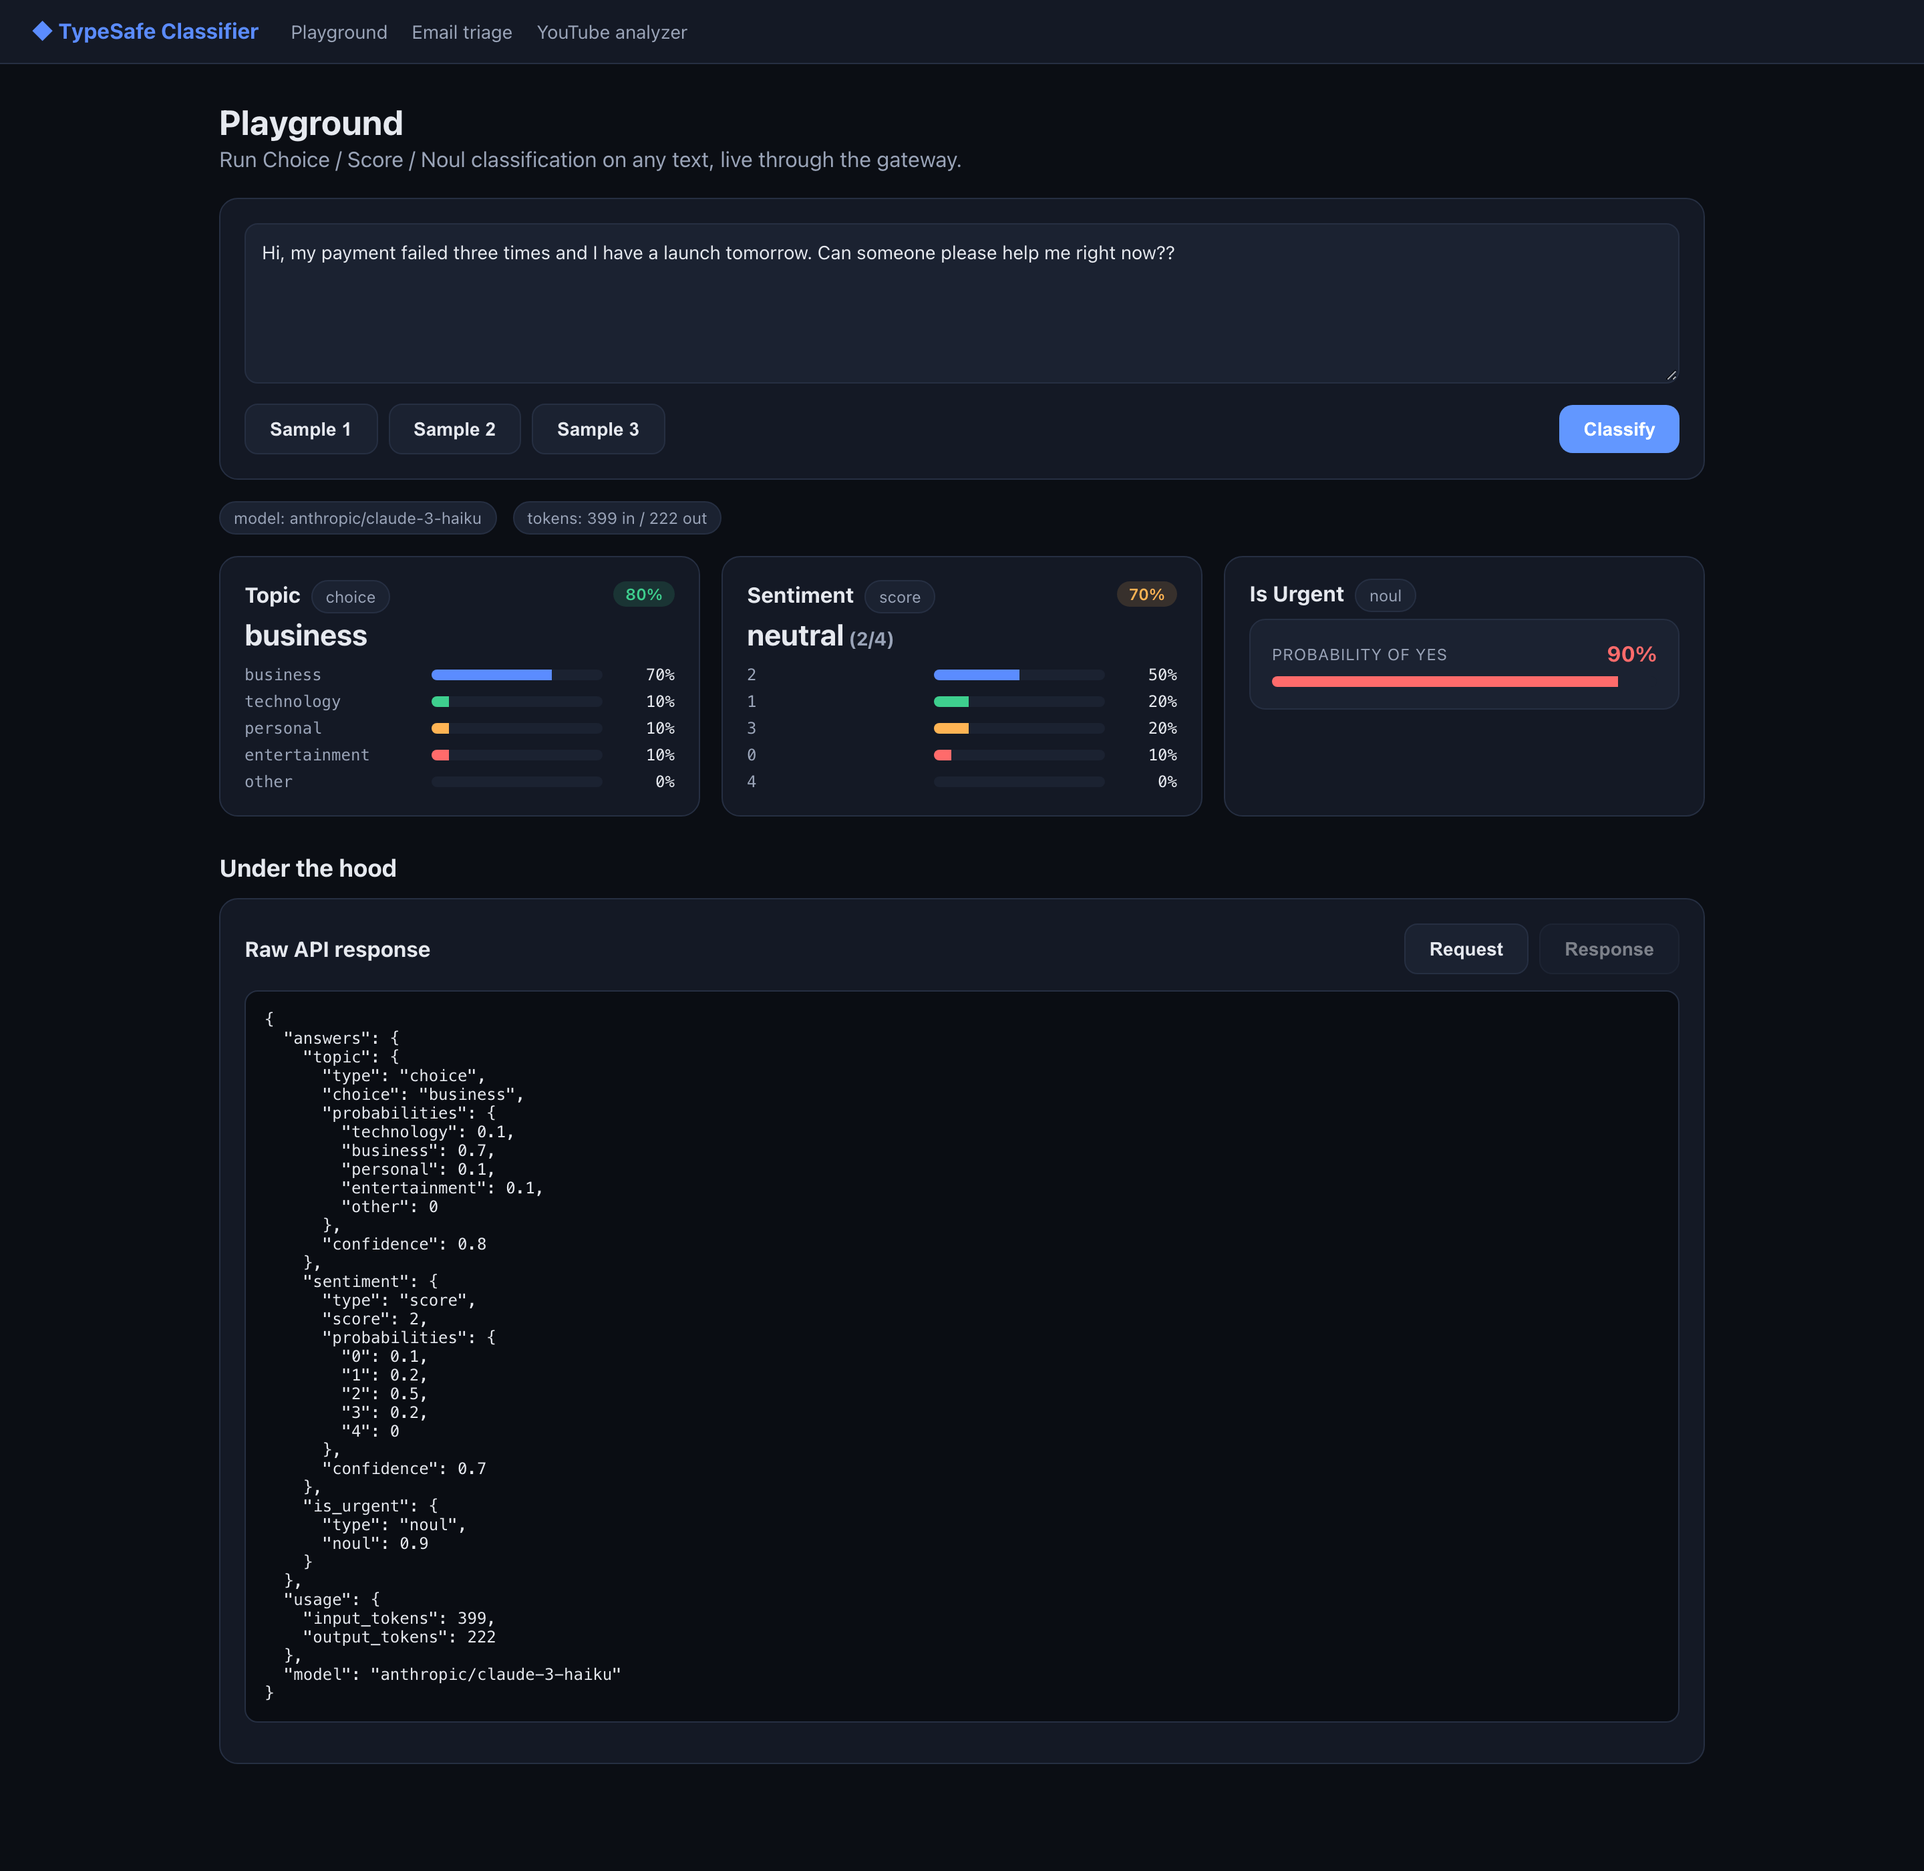
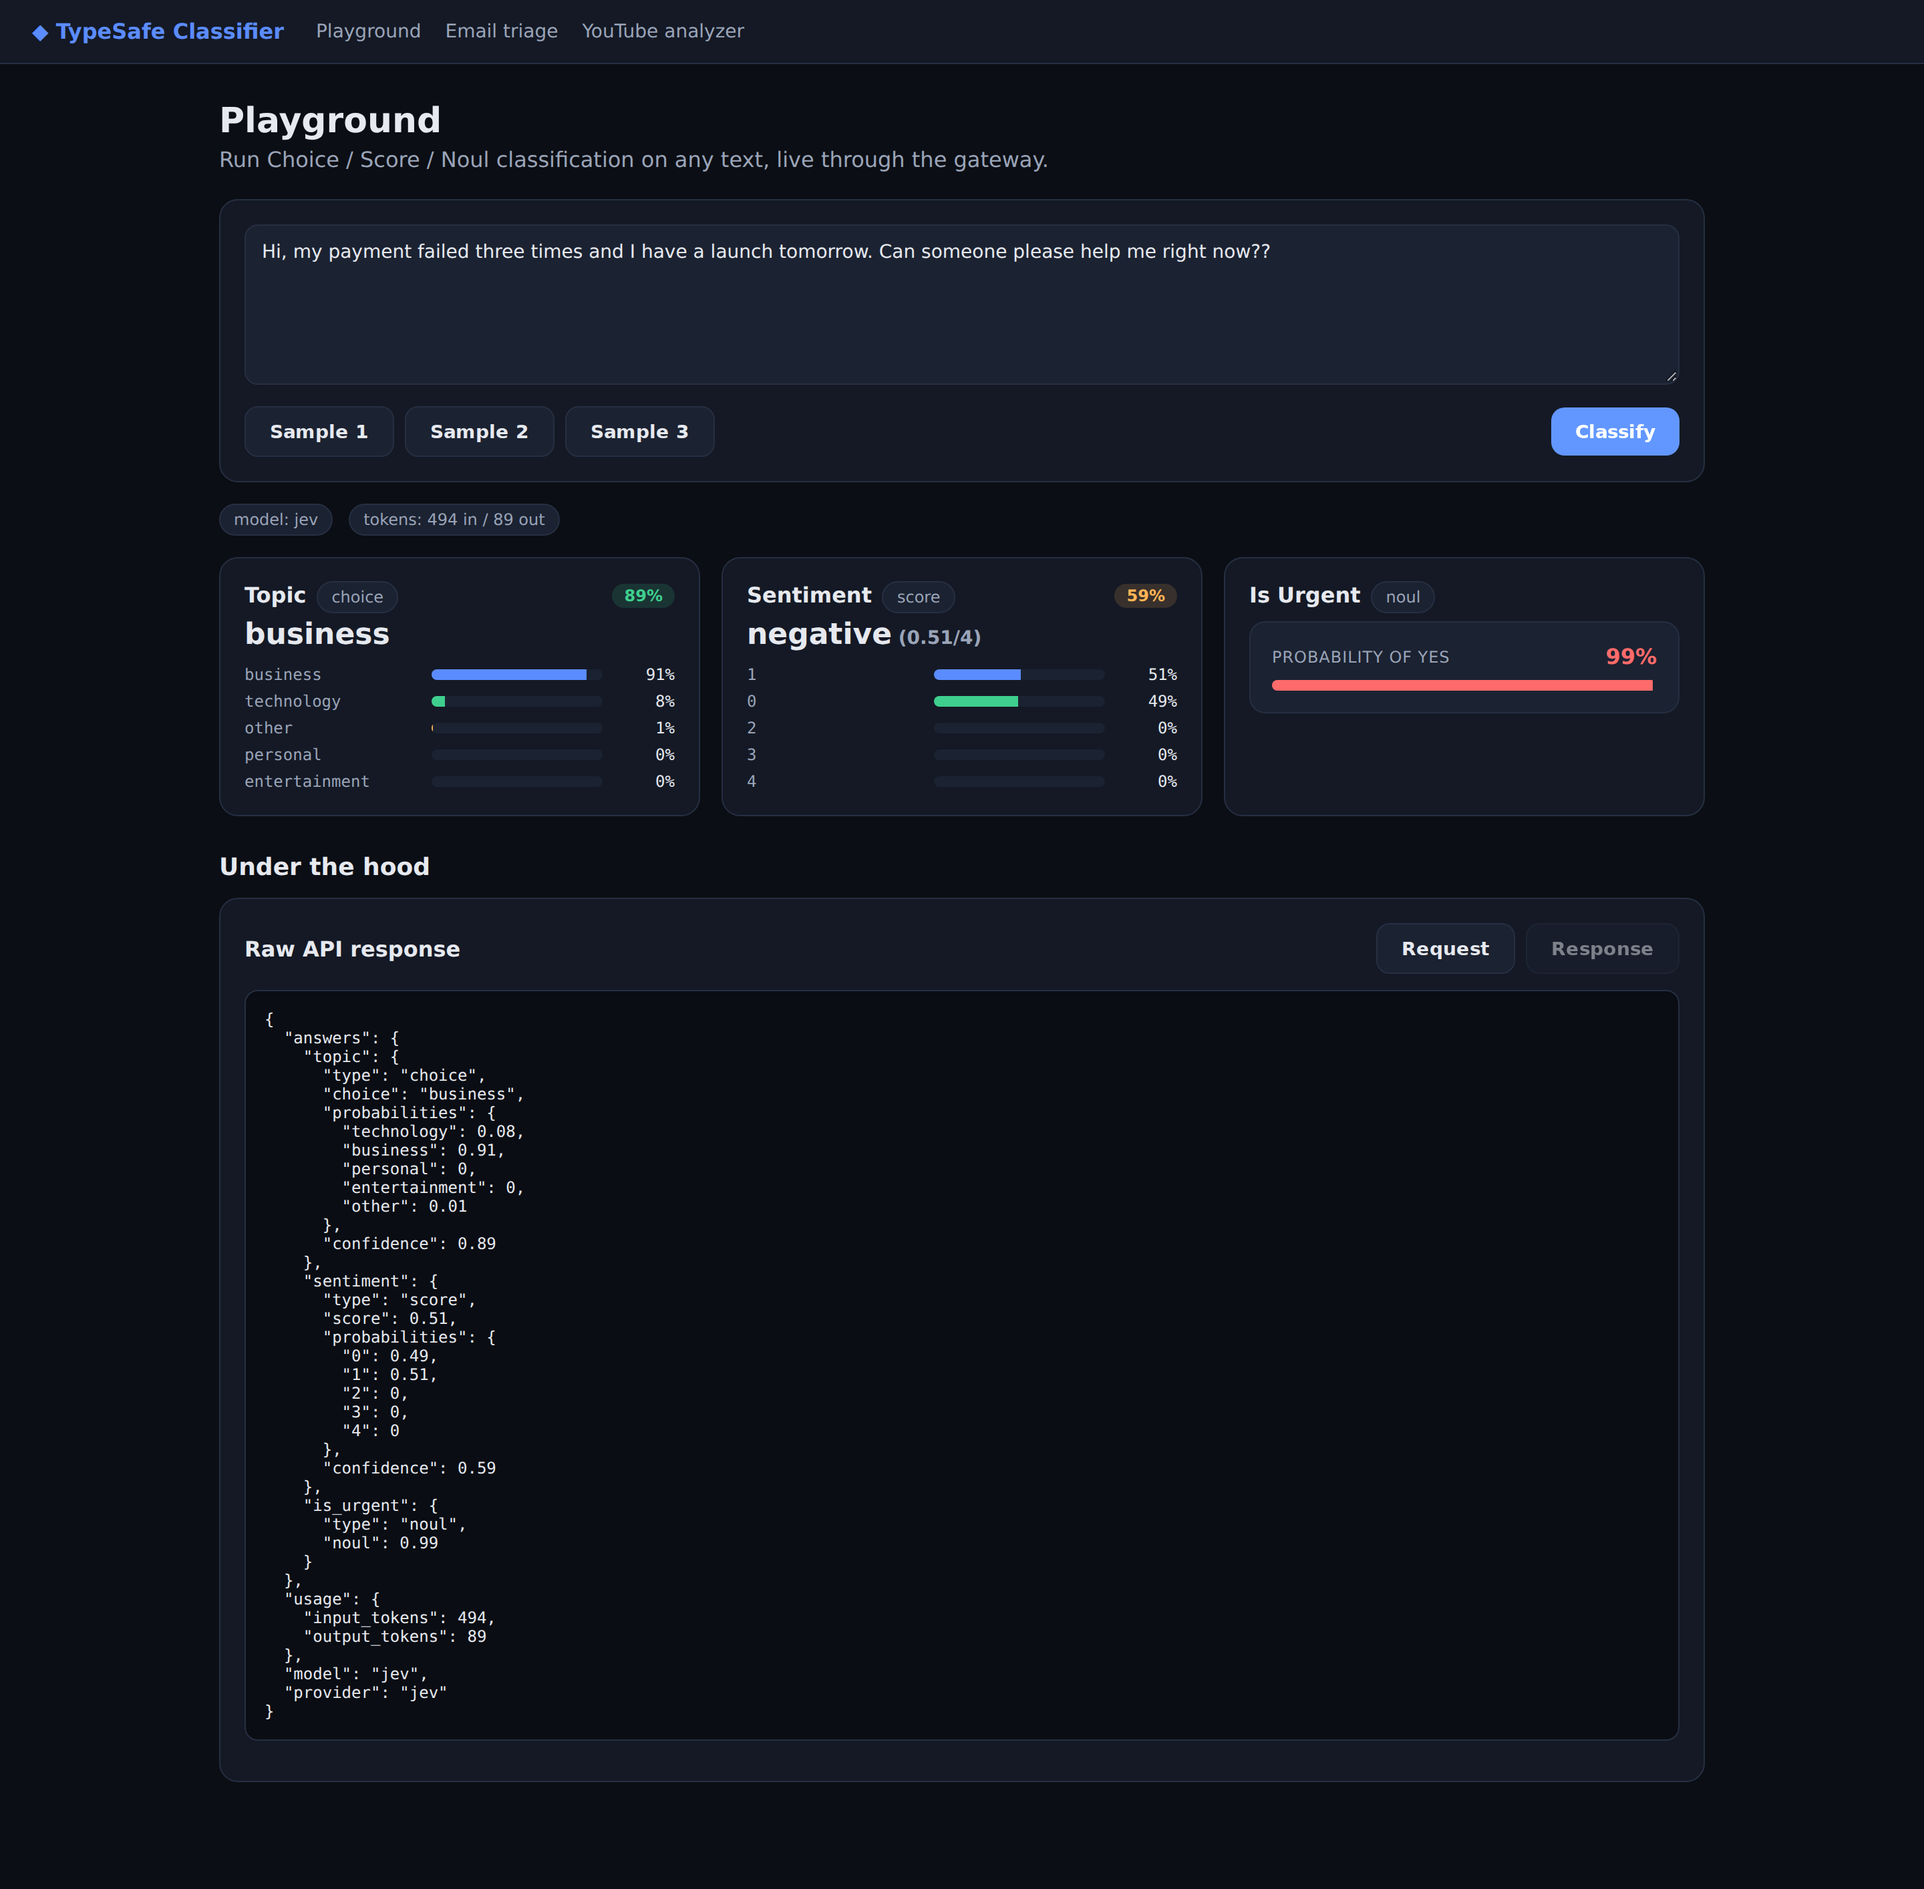
Roadmap v2: Jev expertise hub - dashboard UX audit, dev views, use-case gallery
- Track A: per-dashboard audit (code-verified: charts/stats are static, YouTube
  table unsortable) -> click-to-filter everywhere, row drill-overs, routing sliders
- Track B: RawIO-style full Jev request/response views across all dashboards
- Track C: 10 researched use cases (TypeSafe cookbooks + use-case map), tool-call
  dispatcher (agentic) first, each as a mini-dashboard with 5/10/All batches
- Day-by-day cadence D3-D14; README pointer updated
- Refreshed live-Jev screenshots served at /shots/ via public/shots

diff --git a/docs/ROADMAP-V2.md b/docs/ROADMAP-V2.md
@@ -1,0 +1,107 @@
+# Roadmap v2 — Jev Expertise Hub (from 2026-11-03)
+
+Status: **real Jev live** on http://76.13.122.86:8094/ via the AI Gateway `typesafe`
+surface (vck_ key + paid credits). Emulated Claude path remains selectable
+(`provider=gateway`) for comparison. This roadmap supersedes the "swap" plan, which is done.
+
+Three tracks run concurrently, one visible commit minimum per day:
+
+- **A. Experience** — audit and upgrade every dashboard's interactivity.
+- **B. Dev views** — see the full Jev payload behind every screen, not just Playground.
+- **C. Use-case gallery** — grow the app into the go-to place for Jev expertise, one
+  real use case at a time, in batches of 5–10 items each, like emails/YouTube.
+
+---
+
+## Track A — dashboard-by-dashboard feature audit (code-verified)
+
+### Playground (/playground)
+**Today:** free-text box, 3 samples, single classify, model + token pills, answer cards
+(Choice/Score/Noul), raw request/response viewer (RawIO). Default provider is now real Jev.
+**Gaps → upgrades:**
+- [ ] Provider toggle (Real Jev / Emulated) + side-by-side "ask both" mode.
+- [ ] Editable question builder (add/remove Choice/Score/Noul without code).
+- [ ] History of runs within the session (persist answers across refresh — localStorage).
+- [ ] Latency readout per call (Jev is ~150 ms; worth showing).
+
+### Email triage (/emails)
+**Today:** limit selector (10…All 40), Classify button, donut (categories), histograms
+(urgency/priority), stat tiles, gauge (avg confidence), table sortable by
+subject/category/priority/urgent/confidence.
+**Gaps → upgrades:**
+- [ ] Click a stat/donut slice/histogram bar → filters the table to that bucket.
+- [ ] Click a table row → slide-over with full email text + raw Jev payload for that item.
+- [ ] Confidence-gated routing view: auto-handle vs needs-human split (Jev-native pattern)
+      with adjustable threshold sliders that re-segment instantly.
+- [ ] CSV/JSON export of results incl. probabilities.
+- [ ] Paste-in mode (bring your own emails) like Playground.
+
+### YouTube analyzer (/youtube)
+**Today:** limit selector, Analyze button, topic donut, sentiment & clickbait histograms,
+gauges, timeline, stats. **Table is NOT sortable** and nothing is clickable.
+**Gaps → upgrades:**
+- [ ] Table sorting (parity with emails) + row click → full raw payload + explanation.
+- [ ] Click "N clickbait" stat or clickbait histogram bar → list only those videos
+      (the exact ask: every number becomes a filter).
+- [ ] Per-video BS score badge in a dedicated ranked "Most clickbait" list.
+- [ ] Export + paste-in titles.
+
+### Cross-app
+- [ ] Shared dev view: a `?dev=1` mode or per-page toggle showing the real
+      `/v1/systemone` request + response for every batch item (not just Playground).
+- [ ] All stats/tables/charts fed from the same filter state (chart→table→detail drill path).
+
+## Track B — developer views
+
+Every dashboard gets the Playground's raw-payload treatment: exact Jev request (model,
+state, questions) and exact answer JSON per item, token usage, retry/fallback events
+visible. This is how the app teaches Jev — it already lives in `components/RawIO.tsx`
+and just needs to be wired into batch rows and drill-overs.
+
+## Track C — use-case gallery (researched from docs.typesafe.ai + ecosystem)
+
+Pattern: each use case = a mini-dashboard like emails/YouTube: dataset, typed questions,
+batch classify (5–10 items), charts, dev view. Sources: TypeSafe cookbooks & use-case map.
+
+Priority order (agentic first, as agreed):
+1. **Tool-call dispatcher (agentic flagship)** — natural-language request → function name +
+   closed-set arguments as Choice questions with confidence (trading-API cookbook pattern:
+   `plot_price(symbol='AAPL', resolution='1d')` @ 0.75). Shows Jev as the decision layer of an agent.
+2. **Model router** — classify intent/difficulty/risk → route to cheap vs frontier model.
+3. **LLM guardrails** — screen messages in/out of any LLM app (pass/review/block by threshold).
+4. **Citation checker** — does the quote support the claim? (Choice) — verification lane.
+5. **RAG passage re-ranker** — score retrieved passages, pick what reaches the answering model.
+6. **Memory curator** — which requests/answers are worth remembering (Noul + Score).
+7. **Spam/BS unified** — merge email spam + YouTube clickbait into one "internet BS detector".
+8. **Date/value extraction** — normalize messy dates or amounts, validate in code.
+9. **Twitch-style chat filter** — insults/spam/spoilers with per-message batched questions.
+10. **Entity alignment / dedup** — are these two records the same product? (Score + Nouls).
+Later: hierarchical classification (beam search over Choice probabilities), skill
+suggestion for agent catalogs, Intelliprompter (live transcript tick-off), Box questions
+(images, danger-zone header).
+
+Each gallery item keeps the batch discipline: 5 items first, then 10, then All.
+
+## Cadence (daily commits, ~14 days to current scope)
+
+| Day | Deliverable |
+|-----|-------------|
+| D3  | Track A start: chart→table filtering on YouTube (clickbait stat/Bar → filtered list) + sortable table |
+| D4  | Same filtering + row drill-over (raw payload slide-over) on Emails |
+| D5  | Playground provider toggle + "ask both" side-by-side; latency pills |
+| D6  | Confidence-gated routing view on Emails (threshold sliders, auto vs human) |
+| D7  | Shared dev view (`?dev=1`) incl. per-item raw Jev payloads + retry/fallback events |
+| D8  | CSV/JSON export (all dashboards) + localStorage run persistence |
+| D9  | Use-case #1 scaffold: tool-call dispatcher page (registry of 5 functions, Choice-per-arg) |
+| D10 | Dispatcher live with batches (5→10), confidence-gated execution in code |
+| D11 | Use-case #2: model router dashboard |
+| D12 | Use-case #3: guardrails screen-in/screen-out |
+| D13 | Use-case #4–5: citation checker + RAG re-ranker |
+| D14 | Comparison harness wrap-up: emulated-vs-Jev agreement page across all datasets |
+
+After D14 we re-plan from the use-case list (items 6–10) and stretch goals
+(persistence/SQLite, real corpora upload, calibration view, one-click deploy).
+
+## Non-goals (unchanged)
+No fine-tuning; no scraping (official APIs only); no auth yet. Key handling: secrets stay
+in ~/secrets/classifier.env on the VPS, never in git.

diff --git a/README.md b/README.md
@@ -187,7 +187,7 @@ npm run build   # typecheck + production build
 
 ## Roadmap
 
-The full plan lives in [docs/ROADMAP.md](docs/ROADMAP.md). Highlights:
+The Jev-expertise plan lives in [docs/ROADMAP-V2.md](docs/ROADMAP-V2.md) (experience upgrades, dev views, use-case gallery). The original backlog remains in [docs/ROADMAP.md](docs/ROADMAP.md). Highlights:
 
 - Real datasets (public corpora + CSV/JSON upload) and a paste-in mode.
 - Multi-model comparison: run the same classification across several models and compare agreement.
